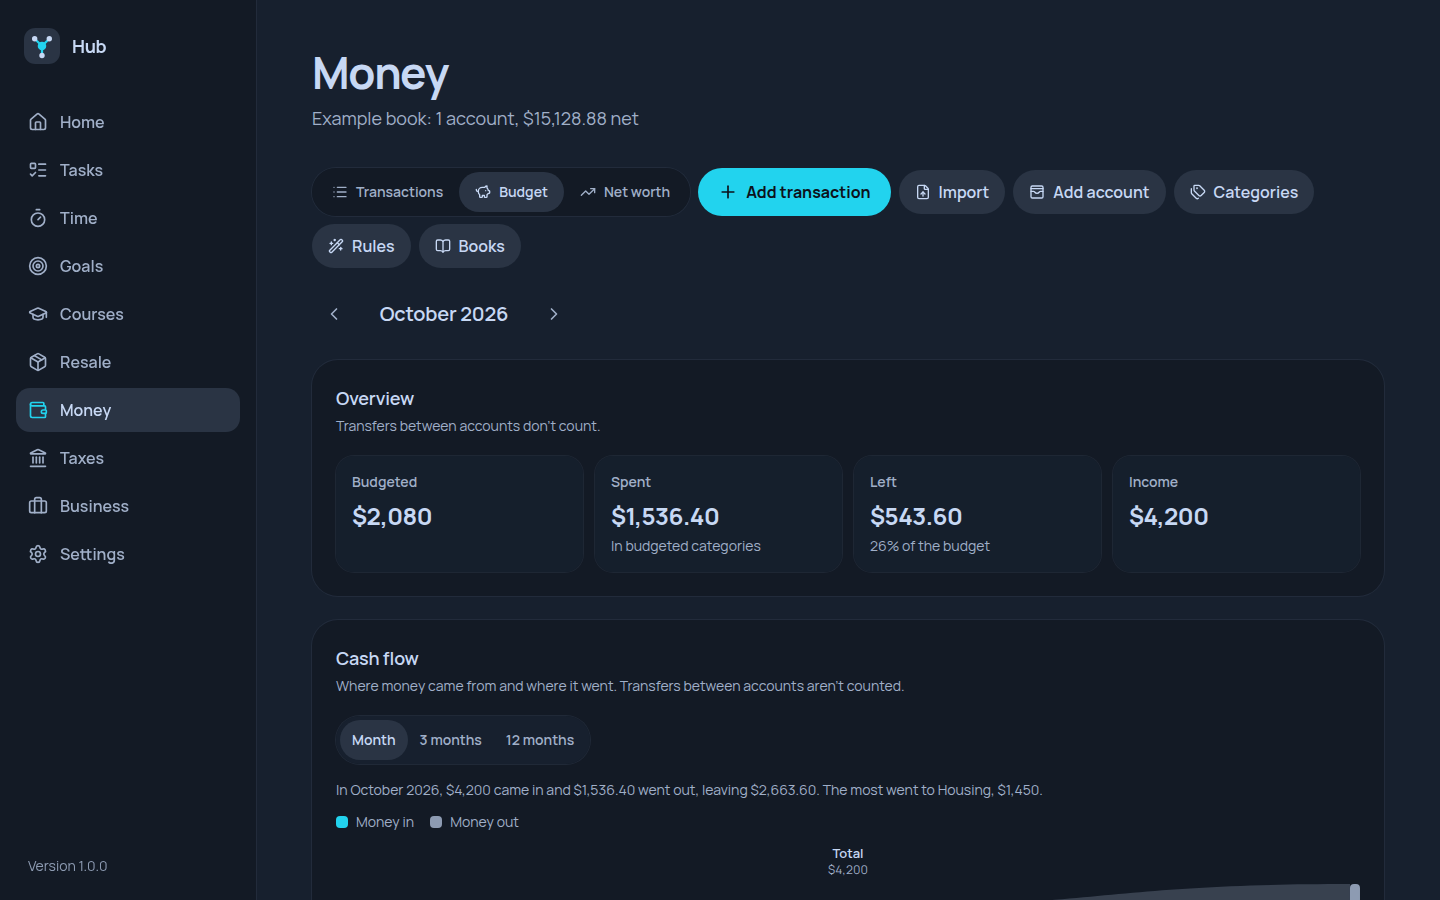
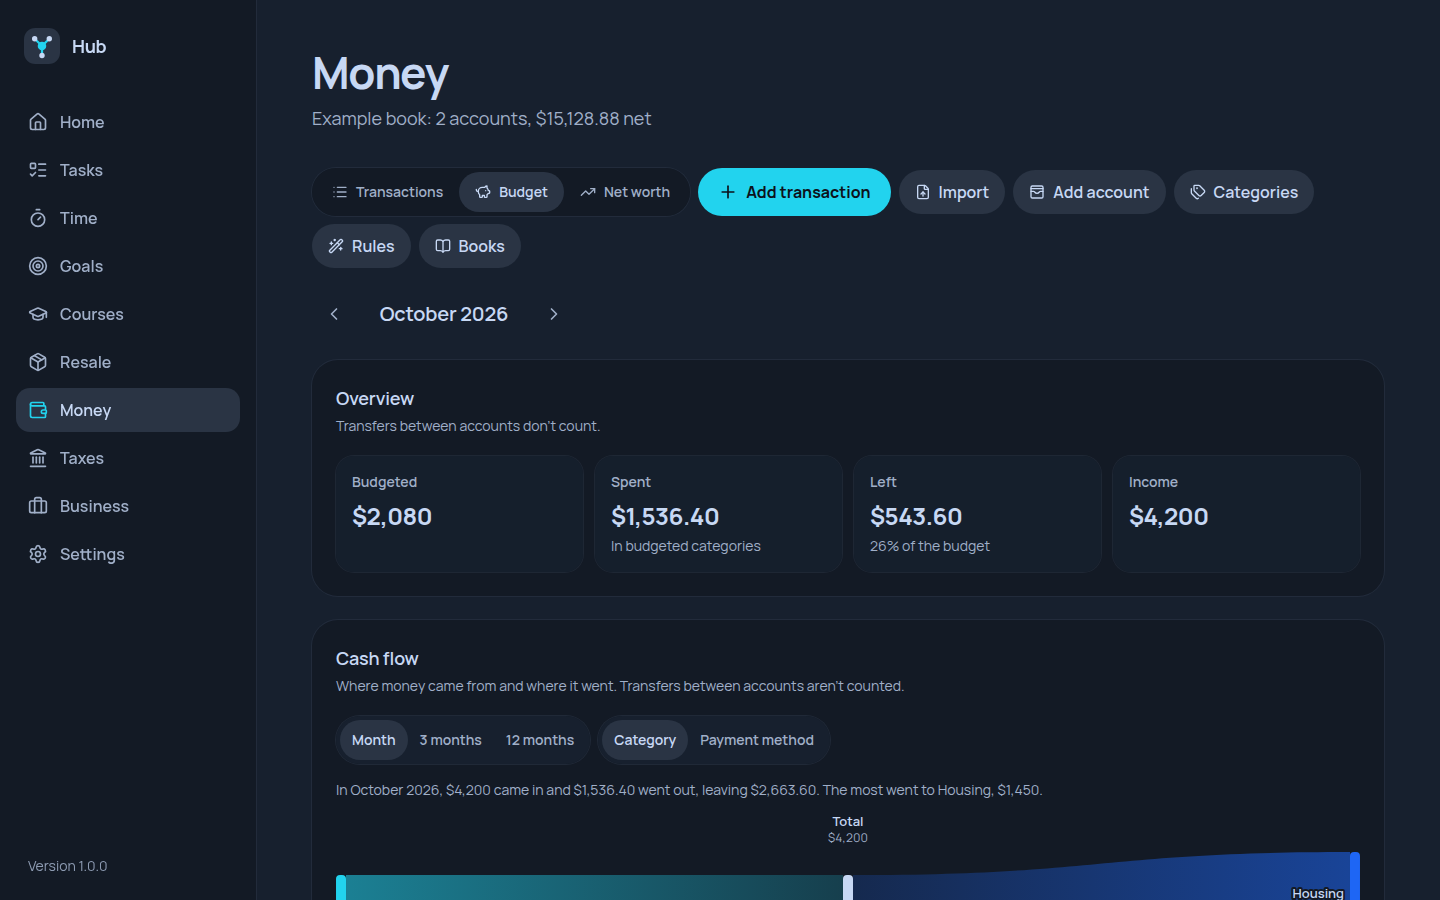
Color the cash flow chart by where money went
- Each category, card, or account money went to gets its own color from a new
  chart series (styles.css): Catppuccin's hues at their darker steps, validated
  as a set against the panel surface for contrast and colorblind-safe
  neighbors, and assigned top to bottom in that order, never cycled.
- Bands fade from their node toward the total; hovering one dims the rest.
- Money in and what's left over keep the accent; "Other" stays gray. Every node
  is labeled, so the in/out legend goes.
- Retakes the budget screenshots.

diff --git a/src/modules/money/components/CashFlowChart.tsx b/src/modules/money/components/CashFlowChart.tsx
@@ -1,22 +1,45 @@
-import { type PointerEvent, useEffect, useRef, useState } from "react";
-import type { CashFlowJson, FlowColumns, FlowNode, FlowRole } from "../../../shared/cashFlow";
+import { type PointerEvent, useEffect, useId, useRef, useState } from "react";
+import type { CashFlowJson, FlowColumns, FlowNode } from "../../../shared/cashFlow";
 import { formatCents } from "../../../shared/money";
 import { type Band, fitLabel, layoutFlow, NODE_WIDTH, type PlacedNode } from "../cashFlowLayout";
 
-// Money in uses the accent; money out a neutral gray, so the two sides read apart even
-// before their labels. What came from account balances is a darker gray.
-const NODE_CLASS: Record<FlowRole, string> = {
-  in: "fill-accent-text",
-  left: "fill-accent-text",
-  out: "fill-faint",
-  drawn: "fill-surface-2",
-};
-const BAND_CLASS: Record<FlowRole, string> = {
-  in: "fill-accent-text",
-  left: "fill-accent-text",
-  out: "fill-faint",
-  drawn: "fill-surface-2",
-};
+/** A node's color: a fill class for its bar, and the CSS color its band fades from. */
+type Paint = { fill: string; color: string };
+
+// The chart series in their validated order (styles.css), as whole class names so
+// Tailwind sees them.
+const SERIES: Paint[] = [
+  { fill: "fill-chart-1", color: "var(--color-chart-1)" },
+  { fill: "fill-chart-2", color: "var(--color-chart-2)" },
+  { fill: "fill-chart-3", color: "var(--color-chart-3)" },
+  { fill: "fill-chart-4", color: "var(--color-chart-4)" },
+  { fill: "fill-chart-5", color: "var(--color-chart-5)" },
+  { fill: "fill-chart-6", color: "var(--color-chart-6)" },
+  { fill: "fill-chart-7", color: "var(--color-chart-7)" },
+  { fill: "fill-chart-8", color: "var(--color-chart-8)" },
+];
+const ACCENT: Paint = { fill: "fill-accent-text", color: "var(--accent-text)" };
+const OTHER: Paint = { fill: "fill-faint", color: "var(--color-faint)" };
+const DRAWN: Paint = { fill: "fill-surface-2", color: "var(--color-surface-2)" };
+
+/**
+ * Money in, and what's left of it, wear the accent: it's your money either way.
+ * Each place money went gets its own series color, top to bottom in the validated
+ * order, so neighbors always stay apart; "Other" is gray, and what came from
+ * account balances a darker gray. Every node is labeled, so color is never the only
+ * way to tell them apart.
+ */
+function paints(columns: FlowColumns): Map<string, Paint> {
+  const map = new Map<string, Paint>();
+  for (const node of columns.sources) map.set(node.key, node.role === "drawn" ? DRAWN : ACCENT);
+  let slot = 0;
+  for (const node of columns.sinks) {
+    if (node.role === "left") map.set(node.key, ACCENT);
+    else if (node.key === "other-out") map.set(node.key, OTHER);
+    else map.set(node.key, SERIES[slot++] ?? OTHER);
+  }
+  return map;
+}
 
 /** The width of an element, kept up to date as it resizes. */
 function useWidth<T extends HTMLElement>() {
@@ -94,6 +117,10 @@ export function CashFlowChart({
 }) {
   const [ref, width] = useWidth<HTMLDivElement>();
   const [active, setActive] = useState<string | null>(null);
+  // useId's colons don't belong in a url(#...) reference.
+  const gradientId = `flow${useId().replace(/[^a-zA-Z0-9]/g, "")}`;
+  const colors = paints(columns);
+  const paint = (key: string) => colors.get(key) ?? OTHER;
   const column = width < 520 ? 220 : 280;
   const layout = width > 0 ? layoutFlow(columns, width, column) : null;
   const nodes = layout ? [...layout.sources, ...layout.sinks] : [];
@@ -116,19 +143,6 @@ export function CashFlowChart({
       <figcaption className="mb-3 text-sm text-muted">{summary}</figcaption>
       {empty ? null : (
         <>
-          <ul
-            className="mb-3 flex flex-wrap gap-x-4 gap-y-1 text-sm text-muted"
-            aria-label="Legend"
-          >
-            <li className="flex items-center gap-2">
-              <span aria-hidden="true" className="size-3 rounded-sm bg-accent-text" />
-              Money in
-            </li>
-            <li className="flex items-center gap-2">
-              <span aria-hidden="true" className="size-3 rounded-sm bg-faint" />
-              Money out
-            </li>
-          </ul>
           <div ref={ref} aria-hidden="true" className="relative w-full">
             {layout ? (
               <svg
@@ -157,12 +171,40 @@ export function CashFlowChart({
                 >
                   {formatCents(columns.totalCents)}
                 </text>
+                <defs>
+                  {layout.bands.map((band: Band) => {
+                    // Strongest at its own node, fading toward the total in the middle.
+                    const left = band.role === "in" || band.role === "drawn";
+                    const color = paint(band.key).color;
+                    return (
+                      <linearGradient
+                        key={band.key}
+                        id={`${gradientId}-${band.key}`}
+                        gradientUnits="userSpaceOnUse"
+                        x1={left ? NODE_WIDTH : layout.middle.x + NODE_WIDTH}
+                        x2={left ? layout.middle.x : width - NODE_WIDTH}
+                        y1={0}
+                        y2={0}
+                      >
+                        <stop
+                          offset="0"
+                          style={{ stopColor: color, stopOpacity: left ? 0.55 : 0.2 }}
+                        />
+                        <stop
+                          offset="1"
+                          style={{ stopColor: color, stopOpacity: left ? 0.2 : 0.55 }}
+                        />
+                      </linearGradient>
+                    );
+                  })}
+                </defs>
                 {layout.bands.map((band: Band) => (
                   <path
                     key={band.key}
                     d={band.path}
-                    className={`${BAND_CLASS[band.role]} cursor-pointer transition-opacity`}
-                    fillOpacity={active === null ? 0.3 : active === band.key ? 0.6 : 0.15}
+                    fill={`url(#${gradientId}-${band.key})`}
+                    className="cursor-pointer transition-opacity"
+                    fillOpacity={active === null || active === band.key ? 1 : 0.35}
                     {...hover(band.key)}
                   />
                 ))}
@@ -182,7 +224,7 @@ export function CashFlowChart({
                     width={NODE_WIDTH}
                     height={node.height}
                     rx={Math.min(4, node.height / 2)}
-                    className={`${NODE_CLASS[node.role]} cursor-pointer`}
+                    className={`${paint(node.key).fill} cursor-pointer`}
                     {...hover(node.key)}
                   />
                 ))}

diff --git a/src/client/styles.css b/src/client/styles.css
@@ -25,6 +25,22 @@
   --color-warn: #f9e2af;
   --color-danger: #f38ba8;
 
+  /*
+    Chart series, for identity (which category, which card), assigned in this order
+    and never cycled. Catppuccin's hues at the darker Latte steps, nudged into the
+    lightness band that reads on these dark surfaces. Validated as a set against
+    the panel surface (mantle): every slot >= 3:1 contrast, and each neighbor in this
+    order stays apart under protanopia and deuteranopia (worst ΔE 15.2).
+  */
+  --color-chart-1: #1e66f5;
+  --color-chart-2: #eb5a02;
+  --color-chart-3: #03939a;
+  --color-chart-4: #c77c06;
+  --color-chart-5: #d05eb3;
+  --color-chart-6: #40a02b;
+  --color-chart-7: #8839ef;
+  --color-chart-8: #d20f39;
+
   --font-sans: "Manrope Variable", ui-sans-serif, system-ui, -apple-system, "Segoe UI", sans-serif;
 
   --radius-control: 0.875rem;
